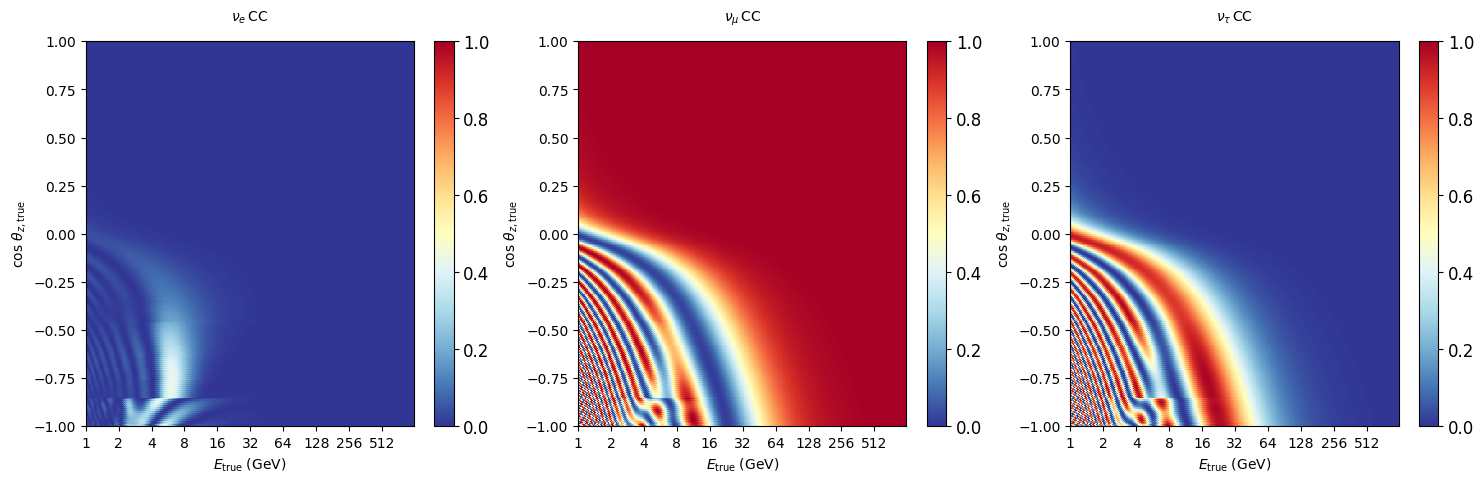
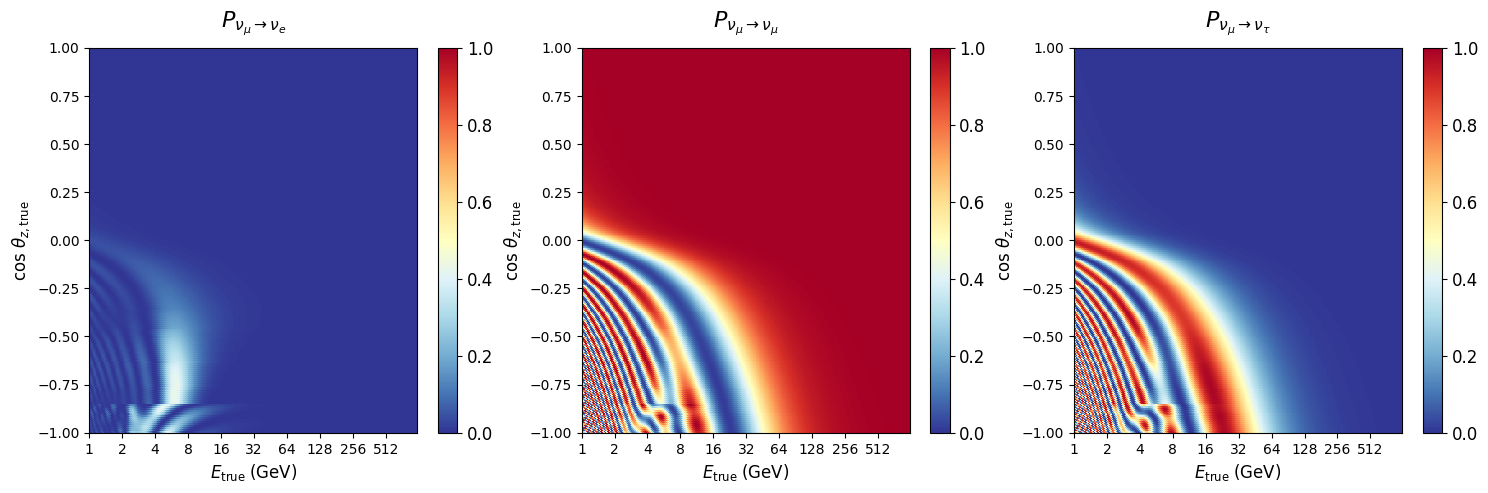
improve oscillogram plotting [no ci]

diff --git a/README.md b/README.md
@@ -72,10 +72,11 @@ Plot them:
 
 
 ```python
+plot_kwargs = {"titlesize": 16, "xlabelsize": 12, "ylabelsize": 12, "cmap": "RdYlBu_r", "vmin": 0, "vmax": 1}
 fig, axes = plt.subplots(figsize=(18, 5), ncols=3)
-outputs['nue_cc'].plot(ax=axes[0], cmap='RdYlBu_r', vmin=0, vmax=1);
-outputs['numu_cc'].plot(ax=axes[1], cmap='RdYlBu_r', vmin=0, vmax=1);
-outputs['nutau_cc'].plot(ax=axes[2], cmap='RdYlBu_r', vmin=0, vmax=1);
+outputs['nue_cc'].plot(ax=axes[0], title=r"$P_{\nu_\mu\to\nu_e}$", **plot_kwargs)
+outputs['numu_cc'].plot(ax=axes[1], title=r"$P_{\nu_\mu\to\nu_\mu}$", **plot_kwargs)
+outputs['nutau_cc'].plot(ax=axes[2], title=r"$P_{\nu_\mu\to\nu_\tau}$", **plot_kwargs);
 ```
 
 